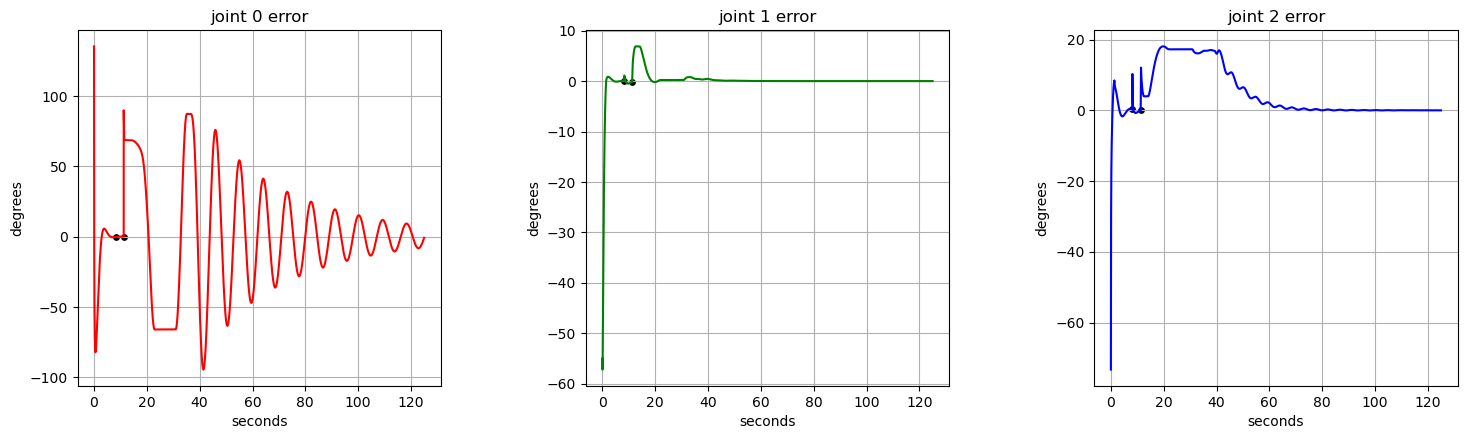
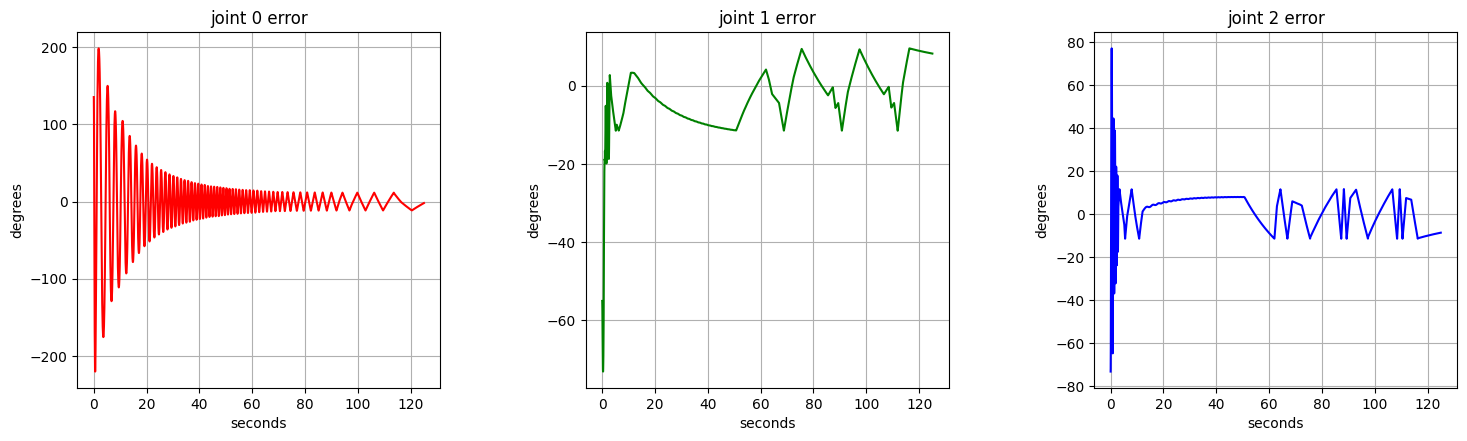
Added the Encoders

diff --git a/control_no_sim.py b/control_no_sim.py
@@ -4,10 +4,12 @@ from time import sleep
 import pybullet as p
 import pybullet_data
 import numpy as np
+import Encoder
 import argparse
 
 # Motor--------------------------------------
-pwm_frequency = 1000    
+pwm_frequency = 1000   
+encoder_count_per_rotation = 810  
 
 # GPIOs--------------------------------------
 # First Motor related
@@ -41,8 +43,10 @@ GPIO.setup(motor_driver_0_reverse_enable_pin, GPIO.OUT)
 GPIO.setup(motor_driver_0_forward_enable_pin, GPIO.OUT)
 GPIO.setup(motor_driver_0_reverse_pwm_pin, GPIO.OUT)
 GPIO.setup(motor_driver_0_forward_pwm_pin, GPIO.OUT)
+
 GPIO.setup(motor_0_Encoder_A_pin, GPIO.IN)
 GPIO.setup(motor_0_Encoder_B_pin, GPIO.IN)
+motor_0_encoder = Encoder.Encoder(motor_0_Encoder_A_pin, motor_0_Encoder_B_pin)
 
 motor_driver_0_reverse_pwm = GPIO.PWM(motor_driver_0_reverse_pwm_pin, pwm_frequency)
 motor_driver_0_forward_pwm = GPIO.PWM(motor_driver_0_forward_pwm_pin, pwm_frequency)
@@ -52,8 +56,10 @@ GPIO.setup(motor_driver_1_reverse_enable_pin, GPIO.OUT)
 GPIO.setup(motor_driver_1_forward_enabl_pine, GPIO.OUT)
 GPIO.setup(motor_driver_1_reverse_pwm_pin, GPIO.OUT)
 GPIO.setup(motor_driver_1_forward_pwm_pin, GPIO.OUT)
+
 GPIO.setup(motor_1_Encoder_A_pin, GPIO.IN)
 GPIO.setup(motor_1_Encoder_B_pin, GPIO.IN)
+motor_1_encoder = Encoder.Encoder(motor_1_Encoder_A_pin, motor_1_Encoder_B_pin)
 
 motor_driver_1_reverse_pwm = GPIO.PWM(motor_driver_1_reverse_pwm_pin, pwm_frequency)
 motor_driver_1_forward_pwm = GPIO.PWM(motor_driver_1_forward__pwm_pin, pwm_frequency)
@@ -63,8 +69,10 @@ GPIO.setup(motor_driver_2_reverse_enable_pin, GPIO.OUT)
 GPIO.setup(motor_driver_2_forward_enable_pin, GPIO.OUT)
 GPIO.setup(motor_driver_2_reverse_pwm_pin, GPIO.OUT)
 GPIO.setup(motor_driver_2_forward_pwm_pin, GPIO.OUT)
+
 GPIO.setup(motor_2_Encoder_A_pin, GPIO.IN)
 GPIO.setup(motor_2_Encoder_B_pin, GPIO.IN)
+motor_2_encoder = Encoder.Encoder(motor_2_Encoder_A_pin, motor_2_Encoder_B_pin)
 
 motor_driver_2_reverse_pwm = GPIO.PWM(motor_driver_2_reverse_pwm_pin, pwm_frequency)
 motor_driver_2_forward_pwm = GPIO.PWM(motor_driver_2_forward_pwm_pin, pwm_frequency)
@@ -95,6 +103,7 @@ destination = [-args.x,args.y,args.z]
 offsetJoint3 = -10*np.pi/180
 
 tol = 1e-2
+
 
 # Can alternatively pass in p.DIRECT 
 # client = p.connect(p.GUI)
@@ -237,10 +246,13 @@ duration = 30000
 
 p.setRealTimeSimulation(0)
 # t0 = time.time()
-dt = 1/240
+# dt = 1/240
+
 termTime = 0
-for i in range(duration): 
-    
+
+dt = 0.05 # 50ms per loop
+
+def main():
     # pos, ori = p.getBasePositionAndOrientation(bodyId)
 
     if state1==False and a1 == False: 
@@ -287,8 +299,15 @@ for i in range(duration):
     
 
     ''' We Need angle and velocity for this: pos, vel '''
-    pos0 = encoder.read() # rad
-    vel0 = encoder.read() # rad/s
+    # radians = (enccoder value / encoder_count_per_rotation) * 2*Pi
+    pos0 = (motor_0_encoder.read() / encoder_count_per_rotation) * 2*np.pi  # rad
+    vel0 = pos0 / dt # rad/s
+
+    pos1 = (motor_1_encoder.read() / encoder_count_per_rotation) * 2*np.pi  # rad
+    vel1 = pos1 / dt # rad/s
+
+    pos2 = (motor_2_encoder.read() / encoder_count_per_rotation) * 2*np.pi  # rad
+    vel2 = pos2 / dt # rad/s
 
     tau0,tau1,tau2 = p.calculateInverseDynamics(bodyId,
                                                 [pos0,pos1,pos2],
@@ -300,8 +319,6 @@ for i in range(duration):
     T0 = kp0*(error0) + kd0*(de0/dt) + ki0*cumul_e0
     T1 = kp1*(error1) + kd1*(de1/dt) + ki1*cumul_e1
     T2 = kp2*(error2) + kd2*(de2/dt) + ki2*cumul_e2
-
-    # print("torques 0 1 2: ",T0,",",T1,",",T2)
 
     prev_error0 = error0
     prev_error1 = error1
@@ -342,16 +359,10 @@ for i in range(duration):
             print("reached state 1")
             minE[-1] = True
             
-            # cumul_e0 = 0
-            # cumul_e1 = 0
-            # cumul_e2 = 0
-        elif state2==False: 
             state2 = True
             print("STATE CHANGED")
             print("reached state 2")
-            # cumul_e0 = 0
-            # cumul_e1 = 0
-            # cumul_e2 = 0
+
             p.changeDynamics(bodyId,3,mass = ee_mass+payload)
             minE[-1] = True
 
@@ -367,21 +378,6 @@ for i in range(duration):
             ki2*=10.5*payload
             kd2*=10.025*payload
 
-            # kp0+=1e-02*payload
-            # ki0+=1e-03*payload
-            # kd0+=3e-01*payload
-
-            # kp1+=500e-01*payload
-            # ki1+=10e-02*payload
-            # kd1+=400e-01*payload
-
-            # kp2+=5e-04*payload
-            # ki2+=5e-05*payload
-            # kd2+=5e-04*payload
-            # print("gains:\n ")
-            # print(kp0,",",ki0,",",kd0)
-            # print(kp1,",",ki1,",",kd1)
-            # print(kp2,",",ki2,",",kd2)
             
         elif state3== False: 
             state3 = True
@@ -393,135 +389,14 @@ for i in range(duration):
             minE[-1] = True
             termTime=i+1
             break
-            
-        
-        
 
-
-    # if i%5000==0: 
-    #     print(i)
-    #     if(state2==True):
-    #         print("Time elapsed: ",i/240," seconds")
-    #         print("current errors (deg.): ",error0*180/np.pi,", ",
-    #                                         error1*180/np.pi,", ",
-    #                                         error2*180/np.pi)
     print("Time elapsed: ",i/240," seconds")
     print("joint angles: ",pos0,", ",pos1,", ",pos2)
     print("joint errors: ",error0,", ",error1,", ",error2)
 
     termTime = i+1
     p.stepSimulation()
+
+    threading.Timer(dt, main).start()
     
-# print("total time took (real time sim) : ", t1-t0)
-    
-
-
-
-''' PLOT ''' ''' PLOT ''' ''' PLOT ''' ''' PLOT ''' ''' PLOT ''' ''' PLOT ''' ''' PLOT '''
-
-
-
-# PLOT
-
-# figure = plt.figure(figsize=[15, 4.5])
-# figure.subplots_adjust(left=0.05, bottom=0.11, right=0.97, top=0.9, wspace=0.4, hspace=0.55)
-
-# t = np.linspace(0,termTime/240,termTime)
-# torqueLog0 = np.asarray(torqueLog0)
-# torqueLog1 = np.asarray(torqueLog1)
-# torqueLog2 = np.asarray(torqueLog2)
-# errorLog0 = np.asarray(errorLog0)
-# errorLog1 = np.asarray(errorLog1)
-# errorLog2 = np.asarray(errorLog2)
-# angLog0 = np.asarray(angLog0)
-# angLog1 = np.asarray(angLog1)
-# angLog2 = np.asarray(angLog2)
-# minE = np.asarray(minE)
-
-
-# ax_1 = figure.add_subplot(131)
-# ax_1.set_title("TORQUE 0")
-# ax_1.plot(t, torqueLog0, '-r')
-# ax_1.grid()
-# ax_1.set_xlabel("seconds")
-# ax_1.set_ylabel("NM")
-
-# ax_2 = figure.add_subplot(132)
-# ax_2.set_title("TORQUE 1")
-# ax_2.plot(t, torqueLog1, '-g')
-# ax_2.grid()
-# ax_2.set_xlabel("seconds")
-# ax_2.set_ylabel("NM")
-
-# ax_3 = figure.add_subplot(133)
-# ax_3.set_title("TORQUE 2")
-# ax_3.plot(t, torqueLog2, '-b')
-# ax_3.grid()
-# ax_3.set_xlabel("seconds")
-# ax_3.set_ylabel("NM")
-
-# plt.savefig("./results/torquePlot.png",bbox_inches='tight')
-
-
-# figure = plt.figure(figsize=[15, 4.5])
-# figure.subplots_adjust(left=0.05, bottom=0.11, right=0.97, top=0.9, wspace=0.4, hspace=0.55)
-
-# mask = minE
-
-
-# ax_4 = figure.add_subplot(131)
-# ax_4.set_title("joint 0 error")
-# ax_4.plot(t, errorLog0, '-r')
-# ax_4.scatter(t[mask],errorLog0[mask],c='k',s=15)
-# ax_4.grid()
-# ax_4.set_xlabel("seconds")
-# ax_4.set_ylabel("degrees")
-
-# ax_5 = figure.add_subplot(132)
-# ax_5.set_title("joint 1 error")
-# ax_5.plot(t, errorLog1, '-g')
-# ax_5.scatter(t[mask],errorLog1[mask],c='k',s=15)
-# ax_5.grid()
-# ax_5.set_xlabel("seconds")
-# ax_5.set_ylabel("degrees")
-
-# ax_6 = figure.add_subplot(133)
-# ax_6.set_title("joint 2 error")
-# ax_6.plot(t, errorLog2, '-b')
-# ax_6.scatter(t[mask],errorLog2[mask],c='k',s=15)
-# ax_6.grid()
-# ax_6.set_xlabel("seconds")
-# ax_6.set_ylabel("degrees")
-
-# plt.savefig("./results/errorPlot.png",bbox_inches='tight')
-
-# figure = plt.figure(figsize=[15, 4.5])
-# figure.subplots_adjust(left=0.05, bottom=0.11, right=0.97, top=0.9, wspace=0.4, hspace=0.55)
-
-# ax_7 = figure.add_subplot(131)
-# ax_7.set_title("joint 0 angle")
-# ax_7.plot(t, angLog0, '-r')
-# ax_7.scatter(t[mask],angLog0[mask],c='k',s=20)
-# ax_7.grid()
-# ax_7.set_xlabel("seconds")
-# ax_7.set_ylabel("degrees")
-
-# ax_8 = figure.add_subplot(132)
-# ax_8.set_title("joint 1 angle")
-# ax_8.plot(t, angLog1, '-g')
-# ax_8.scatter(t[mask],angLog1[mask],c='k',s=20)
-# ax_8.grid()
-# ax_8.set_xlabel("seconds")
-# ax_8.set_ylabel("degrees")
-
-# ax_8 = figure.add_subplot(133)
-# ax_8.set_title("joint 2 angle")
-# ax_8.plot(t, angLog2, '-b')
-# ax_8.scatter(t[mask],angLog2[mask],c='k',s=20)
-# ax_8.grid()
-# ax_8.set_xlabel("seconds")
-# ax_8.set_ylabel("degrees")
-
-# plt.savefig("./results/anglePlot.png",bbox_inches='tight')
-
-# plt.show()
+main()
